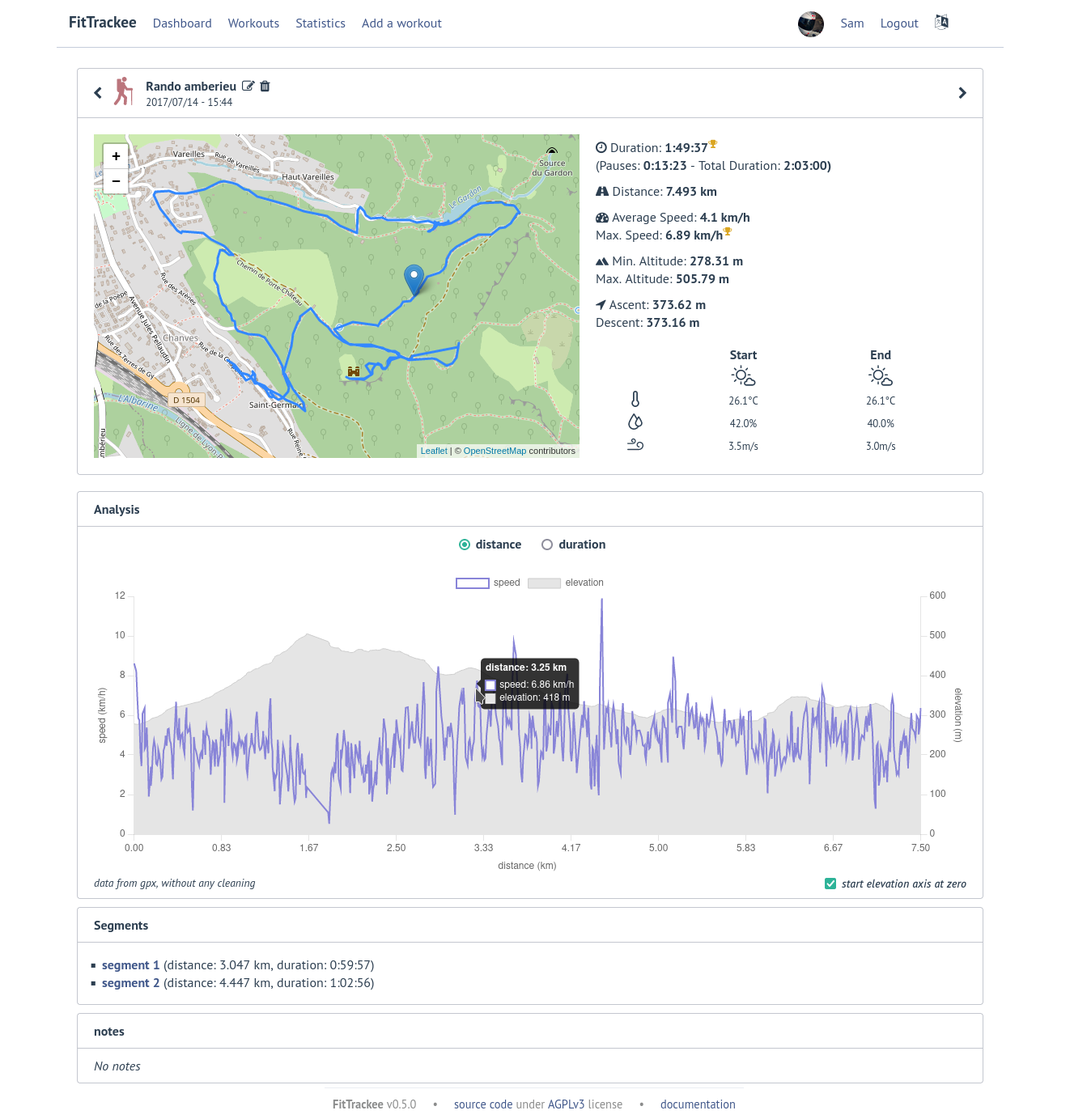
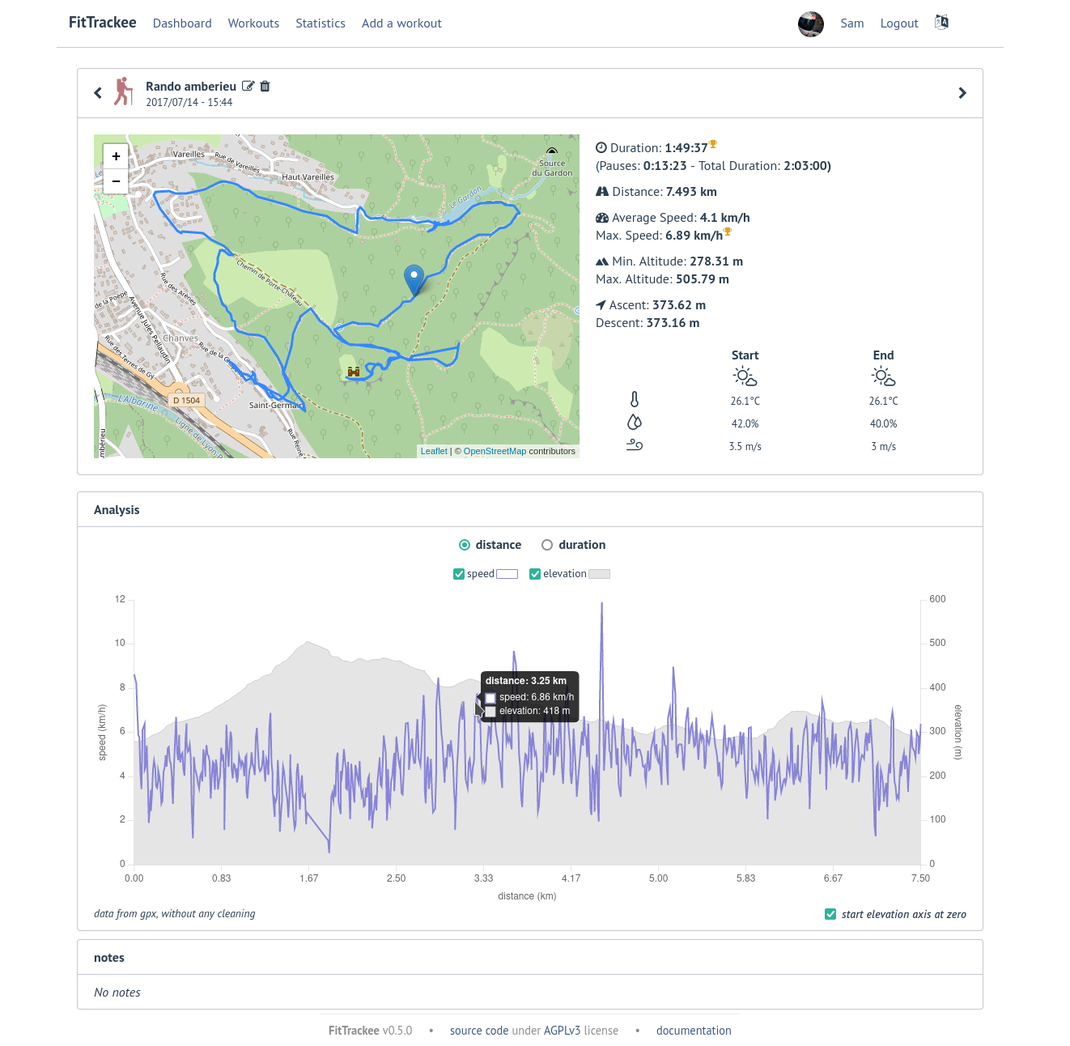
update documentation

diff --git a/docs/searchindex.js b/docs/searchindex.js
@@ -1,1 +1,1 @@
-Search.setIndex({docnames:["api/auth","api/configuration","api/index","api/records","api/sports","api/stats","api/users","api/workouts","changelog","features","index","installation","troubleshooting/administrator","troubleshooting/index","troubleshooting/user"],envversion:{"sphinx.domains.c":2,"sphinx.domains.changeset":1,"sphinx.domains.citation":1,"sphinx.domains.cpp":4,"sphinx.domains.index":1,"sphinx.domains.javascript":2,"sphinx.domains.math":2,"sphinx.domains.python":3,"sphinx.domains.rst":2,"sphinx.domains.std":2,sphinx:56},filenames:["api/auth.rst","api/configuration.rst","api/index.rst","api/records.rst","api/sports.rst","api/stats.rst","api/users.rst","api/workouts.rst","changelog.md","features.rst","index.rst","installation.rst","troubleshooting/administrator.rst","troubleshooting/index.rst","troubleshooting/user.rst"],objects:{"":[[0,0,1,"post--api-auth-login","/api/auth/login"],[0,1,1,"get--api-auth-logout","/api/auth/logout"],[0,0,1,"post--api-auth-password-reset-request","/api/auth/password/reset-request"],[0,0,1,"post--api-auth-password-update","/api/auth/password/update"],[0,2,1,"delete--api-auth-picture","/api/auth/picture"],[0,0,1,"post--api-auth-picture","/api/auth/picture"],[0,1,1,"get--api-auth-profile","/api/auth/profile"],[0,0,1,"post--api-auth-profile-edit","/api/auth/profile/edit"],[0,0,1,"post--api-auth-profile-edit-preferences","/api/auth/profile/edit/preferences"],[0,0,1,"post--api-auth-profile-edit-sports","/api/auth/profile/edit/sports"],[0,0,1,"post--api-auth-register","/api/auth/register"],[1,1,1,"get--api-config","/api/config"],[1,3,1,"patch--api-config","/api/config"],[1,1,1,"get--api-ping","/api/ping"],[3,1,1,"get--api-records","/api/records"],[4,1,1,"get--api-sports","/api/sports"],[4,1,1,"get--api-sports-(int-sport_id)","/api/sports/(int:sport_id)"],[4,3,1,"patch--api-sports-(int-sport_id)","/api/sports/(int:sport_id)"],[5,1,1,"get--api-stats-(user_name)-by_sport","/api/stats/(user_name)/by_sport"],[5,1,1,"get--api-stats-(user_name)-by_time","/api/stats/(user_name)/by_time"],[5,1,1,"get--api-stats-all","/api/stats/all"],[6,1,1,"get--api-users","/api/users"],[6,2,1,"delete--api-users-(user_name)","/api/users/(user_name)"],[6,1,1,"get--api-users-(user_name)","/api/users/(user_name)"],[6,3,1,"patch--api-users-(user_name)","/api/users/(user_name)"],[6,1,1,"get--api-users-(user_name)-picture","/api/users/(user_name)/picture"],[7,1,1,"get--api-workouts","/api/workouts"],[7,0,1,"post--api-workouts","/api/workouts"],[7,2,1,"delete--api-workouts-(string-workout_short_id)","/api/workouts/(string:workout_short_id)"],[7,1,1,"get--api-workouts-(string-workout_short_id)","/api/workouts/(string:workout_short_id)"],[7,3,1,"patch--api-workouts-(string-workout_short_id)","/api/workouts/(string:workout_short_id)"],[7,1,1,"get--api-workouts-(string-workout_short_id)-chart_data","/api/workouts/(string:workout_short_id)/chart_data"],[7,1,1,"get--api-workouts-(string-workout_short_id)-chart_data-segment-(int-segment_id)","/api/workouts/(string:workout_short_id)/chart_data/segment/(int:segment_id)"],[7,1,1,"get--api-workouts-(string-workout_short_id)-gpx","/api/workouts/(string:workout_short_id)/gpx"],[7,1,1,"get--api-workouts-(string-workout_short_id)-gpx-segment-(int-segment_id)","/api/workouts/(string:workout_short_id)/gpx/segment/(int:segment_id)"],[7,1,1,"get--api-workouts-map-(map_id)","/api/workouts/map/(map_id)"],[7,0,1,"post--api-workouts-no_gpx","/api/workouts/no_gpx"],[11,4,1,"-","APP_LOG"],[11,4,1,"-","APP_SECRET_KEY"],[11,4,1,"-","APP_SETTINGS"],[11,4,1,"-","APP_WORKERS"],[11,4,1,"-","DATABASE_DISABLE_POOLING"],[11,4,1,"-","DATABASE_URL"],[11,4,1,"envvar-DEFAULT_STATICMAP","DEFAULT_STATICMAP \ud83c\udd95"],[11,4,1,"-","EMAIL_URL"],[11,4,1,"-","FLASK_APP"],[11,4,1,"-","HOST"],[11,4,1,"-","MAP_ATTRIBUTION"],[11,4,1,"-","PORT"],[11,4,1,"-","REDIS_URL"],[11,4,1,"-","SENDER_EMAIL"],[11,4,1,"-","TILE_SERVER_URL"],[11,4,1,"-","UI_URL"],[11,4,1,"-","UPLOAD_FOLDER"],[11,4,1,"-","VUE_APP_API_URL"],[11,4,1,"-","WEATHER_API_KEY"],[11,4,1,"-","WORKERS_PROCESSES"]],"/api/workouts/map_tile/(s)/(z)/(x)/(y)":[[7,1,1,"get--api-workouts-map_tile-(s)-(z)-(x)-(y).png","png"]]},objnames:{"0":["http","post","HTTP post"],"1":["http","get","HTTP get"],"2":["http","delete","HTTP delete"],"3":["http","patch","HTTP patch"],"4":["std","envvar","environment variable"]},objtypes:{"0":"http:post","1":"http:get","2":"http:delete","3":"http:patch","4":"std:envvar"},terms:{"0":[0,1,3,4,5,6,7,9,10,11],"00":[0,3,6,7],"000000":0,"01":[0,3,5,6,7,10],"02":[7,10],"03":[6,7,10],"04":[7,10],"06":5,"07":[0,3,6,7,10],"08":[0,3,6],"09":[0,6,10],"0mb":[0,7],"1":[0,1,3,4,5,6,7,9,10,11],"10":[0,1,3,6,7,10,11],"100":[7,8,9],"1000":5,"101":8,"104":8,"1048576":1,"10485760":1,"109":8,"11":[0,3,6,9,10],"12":[0,3,6,7,10],"1232004":7,"12341":5,"1234538":7,"1267":5,"127":11,"13":[7,8],"14":[0,6,7,10],"15":[5,7,10],"150":5,"156":5,"1563529507772":7,"16":[5,7,10],"17":[7,10,11],"178":5,"18":[0,3,6,7,8],"19":10,"2":[0,1,3,4,5,6,7,10,11],"20":6,"200":[0,1,3,4,5,6,7],"201":[0,7],"2017":[5,7],"2018":[5,7,10],"2019":[0,3,5,6,7,10],"2020":10,"2021":10,"203":5,"204":[0,6,7],"21":10,"22":[7,8],"23":10,"24":8,"25":[8,11],"26":8,"27":[0,6],"279":7,"28":8,"280":7,"282":5,"29":10,"2930":7,"2e1ee2c":8,"3":[0,4,5,6,7,9,10,11],"30":[5,10],"3000":11,"301":11,"31":[7,10],"33":8,"34":8,"34614d5":8,"36":8,"37":8,"39":7,"4":[0,4,5,6,7,10,11],"40":8,"400":[0,1,4,7],"401":[0,1,3,4,5,6,7],"403":[0,1,4,5,6,7],"404":[0,4,5,6,7],"41":8,"4109":7,"413":[0,7],"43":8,"44":[7,8],"443":11,"45":7,"46":[5,8],"465":11,"47":[5,7,8],"48":5,"4c3fc34":8,"5":[1,4,5,6,7,9,10,11],"50":[0,6,8],"500":[0,1,4,6,7],"5000":11,"5078118":7,"5079733":7,"51":7,"53":8,"54":8,"5432":11,"57":[7,8],"58":[0,6,8],"587":11,"59":8,"6":[0,4,6,7,10],"613":5,"62":8,"63":7,"64":8,"66":8,"67":[0,6],"7":[7,10,11],"70":8,"71":8,"72":8,"7380":7,"75":8,"78":5,"79":8,"8":[0,7,10],"80":[8,11],"8025":11,"81":8,"82":8,"83":8,"84":8,"895":[0,6],"9":[0,3,6,10,11],"90":8,"91":8,"93":8,"95":[5,8],"98":8,"99":[5,8],"9960":5,"boolean":[0,1,6],"case":9,"default":[5,6,7,8,9,11],"do":[1,4,5,6,7],"export":10,"float":[0,7],"import":[8,11],"int":[4,7],"new":[0,9,11],"null":[0,4,6,7],"return":[3,7,11],"short":7,"static":[8,11],"switch":8,"true":[0,1,4,6,8,11],"try":[0,6,7],A:[6,8,9],AS:[0,3,6,7],For:[9,11],If:[9,11],In:[8,9],It:[8,9,10,12],NO:[0,6,7],NOT:[0,4,7],No:[0,6,7,8,10],Not:[4,5,6,7],OF:11,ON:11,On:11,One:11,TO:11,The:[8,9,11],There:11,To:11,WITH:11,With:11,_:8,__main__:11,_blank:11,access:11,account:[6,8],acit:7,activ:[4,8,9,10,11],ad:[0,8,9],adapt:11,add:[6,8,9,10],addit:11,address:11,admin:[0,1,3,4,5,6,7,8,9,11],administr:[0,6,7,10,13],after:[8,11],again:[0,1,3,4,5,6,7],agplv3:8,all:[3,4,5,6,11],allow:[0,1,7,8,10],along:7,alpin:9,alreadi:0,also:[8,10,11],altitud:8,alwai:11,an:[1,4,6,7,8,9,11],android:10,anoth:[6,11],anymor:8,apach:10,api:[0,1,3,4,5,6,7,8,9,10,11],apikei:11,app:10,app_log:11,app_secret_kei:11,app_set:11,app_work:11,appear:9,applic:[0,1,3,4,5,6,7,8,9,10,11],ar:[3,7,8,9,10,11,12],arch:11,archiv:[1,8,9,11],archlinux:11,asc:6,ascent:[7,9],attribut:11,auth:[0,1,3,4,5,6,7],auth_token:0,auth_user_id:[1,3,4,5,6,7],authent:[1,2,3,4,5,6,7,10],author:[0,1,3,4,5,6,7],avail:[0,3,9,10,11],ave_spe:7,ave_speed_from:7,ave_speed_to:7,averag:[3,7,8,9],average_spe:5,axi:7,b862a77:8,b:11,background:8,backup:11,bad:[0,1,4,7],bearer:[0,1,3,4,5,6,7],becom:8,been:8,befor:[8,11],begin:11,better:8,between:9,bike:[4,7,8,9],bin:11,bio:[0,6],biographi:0,birth:[0,8],birth_dat:[0,6],bound:7,build:11,by_sport:5,by_tim:5,c:7,calcul:8,calendar:[8,9],can:[6,8,9,10,11,12],cannot:8,cd:11,chang:[9,10,11],charact:[0,8],chart:[7,8,9,11],chart_data:7,check:[1,11,12],choos:[8,9],client:[8,11],client_max_body_s:11,clone:11,code:[0,1,3,4,5,6,7],color:[0,4,8,9],com:[0,6,11],complet:8,config:[1,11],configur:[2,8,9,10,11],confirm:0,contact:[0,6,7],contain:[8,9,11],content:[0,1,3,4,5,6,7],contributor:[1,8,11],control:8,coordin:11,copi:[1,11],copyright:[1,11],correctli:8,countri:9,cp:11,creat:[0,7,8,9,11],create_app:11,created_at:[0,6],creation:[8,9],creation_d:7,credenti:[0,11],criteria:6,cross:9,current:8,custom:11,cycl:[4,8,9],d:[0,5,7],dai:[8,9],dark:11,darkski:[8,9],dashboard:[8,10],data:[0,1,3,4,5,6,7,8,9,10,11],databas:[8,9,11,12],database_disable_pool:11,database_url:[8,11],date:[0,5,7,8,9],db:11,debian:11,default_staticmap:[8,11],defin:9,definit:8,delet:[0,6,7,8,9],depend:[8,11],deploy:10,desc:7,descent:[7,9],describ:11,descript:11,detail:[6,8,10],develop:[8,10],dialect:12,differ:8,directli:11,directori:[8,11],disabl:[0,8,9,11],displai:[7,8,9,10,11,12],distanc:[3,7,8,9],distance_from:7,distance_to:7,distribut:11,docker:[8,10],document:[8,10,11],doe:[0,5,6,7,8],don:0,down:8,download:11,dramatiq:11,drop:8,dropdown:9,due:8,durat:[3,7,8,9],duration_from:7,duration_to:7,dure:[0,7],easi:8,edit:[0,8,9],electr:9,elev:[7,8,9,11],els:11,email:[0,6,8],email_url:11,empti:8,en:[0,6],enabl:[1,9],encount:11,end:[5,7],endpoint:[1,8],engin:[8,11,12],english:9,enter:[8,9],entiti:[0,7],entri:11,env:11,environ:[8,10,12],error:[0,1,4,6,7,8,9,11,12],europ:[0,6],evalu:[8,11],even:[8,9],exampl:[0,1,3,4,5,6,7,10,11],exc:12,exce:[0,7],exceed:8,except:6,execstart:11,exhaust:10,exist:[0,5,6,7,9,10,11],expir:[0,1,3,4,5,6,7],extens:[0,7],fa33f4d996844a5c73ecd1ae24456ab8:7,fail:[8,13],fals:[0,1,4,6,7,11],farest:[3,8,9],fd:[0,3,6,7],featur:[10,11],fetch:11,file:[0,1,7,8,9,10,11],filter:[8,9],first:[0,9,10],first_nam:[0,6],fitotrack:10,fittracke:[9,11,13],fittrackee_cli:11,fittrackee_init_data:11,fittrackee_upgrade_db:11,fittrackee_work:11,fix:10,flask:11,flask_app:11,flaticon:11,fmstrat:8,follow:[3,9,11,12],forbidden:[0,1,4,5,6,7],forecast:11,form:[0,7],format:[0,5,7],former:11,forrunn:10,forward:11,found:[0,4,5,6,7],fr:6,frame:5,freepik:11,french:[9,10],fri:7,from:[1,3,4,5,6,7,8,10],full:8,fullchain:11,gener:[8,11],get:[0,1,3,4,5,6,7],gif:0,git:11,github:11,given:11,gmt:[0,3,6,7],gpl:10,gpx:[7,8,9,10,11],gpx_limit_import:1,gpxpy:[0,9,11],grant:11,greater:8,gunicorn:[11,12],gz:11,h:[7,9],ha:[6,9],handl:[0,9,11],has_workout:4,have:[1,4,5,6,7,8],he:6,header:[0,1,3,4,5,6,7],health:1,heavi:[10,11],hexadecim:0,hi:[6,8,9],hike:[4,8,9],home:11,host:11,href:[1,11],http:[0,1,3,4,5,6,7,11],hvybqybra7wwxpastwr4v2:[0,3,6],i18n:8,icon:11,id:[0,1,3,4,5,6,7],imag:[0,6,7,8,9,11],imperi:[8,9],imperial_unit:[0,6],improv:10,incorrect:8,index:7,info:0,inform:[8,10,11],init:11,initi:11,initialis:11,insid:11,instal:[8,10],instanc:[1,9,11],instead:9,integ:[1,3,4,5,6,7],interceptor:8,interfac:11,intern:[0,1,4,6,7],introduc:8,invalid:[0,1,3,4,5,6,7,8,11],io:11,ip:11,is_act:[0,4],is_active_for_us:4,is_registration_en:1,issu:[10,11],jan:7,javascript:8,john_do:6,jpeg:6,jpg:0,js:11,json:[0,1,3,4,5,6,7],jul:[0,3,6,7],keep:[8,10,11],kei:[8,9,11],kjxavsturjvoah2wvcegef:7,km:[7,9],label:4,languag:[0,6,9],larg:[0,7,9],larger:11,last:[0,11],last_nam:[0,6],latitud:7,layer:[8,11],ld:[0,3,6,7],leaflet:[7,11],least:7,less:8,librari:11,licens:[8,10],like:[9,11],limit:[8,9],link:11,linux:11,list:[8,10,11],listen:11,load:[8,12],local:[8,10,11],localhost:11,locat:[0,6,11],log:[0,1,3,4,5,6,7,10,11,12],logfil:11,login:0,logo:11,logout:[0,8],longer:[8,12],longest:[3,8,9],longitud:7,m:[0,5,7],made:11,mai:[9,10,11],mailhog:11,major:8,make:[8,11],makefil:11,manag:8,mandatori:[7,8,11],map:[7,8,9,10],map_attribut:[1,11],map_id:7,map_til:7,match:0,max:[1,6,7,8],max_alt:7,max_single_file_s:1,max_spe:7,max_speed_from:7,max_speed_to:7,max_us:1,max_zip_file_s:1,maxim:7,maximum:[3,8,9],messag:[0,1,7,8],method:11,metric:9,migrat:8,min:8,min_alt:7,minim:7,minor:10,miss:8,mobil:10,model:8,modifi:[6,8],modification_d:7,modul:11,mon:7,mondai:[0,5,9],montain:8,month:[5,8,9],more:[8,9,10,11],morn:7,mountain:[4,9],mous:8,move:[7,8],movement:8,mpwoadmin:11,ms:[0,3,6,7],multi:11,multipart:[0,7],must:[0,1,4,8,9,11,12],mv:11,n:0,name:[0,5,6,11],nano:11,nb_sport:[0,6],nb_workout:[0,5,6],necessari:[9,11],need:11,network:11,next:9,next_workout:7,nginx:[9,11],no_gpx:7,non:[4,10],noopen:11,noreferr:11,nosuchmoduleerror:12,note:[7,8,9,11],now:[8,9,11],number:[1,6,7,8,9,11],oauth:[0,1,3,4,5,6,7],object:[0,1,4,6,7],ok:[0,1,3,4,5,6,7],one:[6,7,9],onli:[6,7,8,9,11],open:[10,11],openstreetmap:[1,8,11],opentrack:10,option:11,order:[6,7,8],order_bi:6,org:[1,11],os:11,other:[6,11],out:0,outdoor:[8,10,11],over:8,overrid:9,overridden:9,overwrit:11,own:[6,10],owner:[8,9],packag:[8,11],paf38:8,page:[6,7],pagin:[6,7],par_pag:6,paramet:[0,1,3,4,5,6,7,8,9],pari:[0,6],pars:11,part:[0,7],pass:11,password:[0,8,9,11],password_conf:0,patch:[1,4,6,7],path:11,paus:[7,8],payload:[0,1,4,7],pem:11,per:[6,7,8],per_pag:[6,7],period:9,permiss:[1,4,5,6,7],pg_dump:11,pictur:[0,6,7],ping:1,pip:11,pipenv:8,pleas:[0,1,3,4,5,6,7,8],plugin:12,png:[0,7,11],poetri:[8,11],point:[8,11],pong:1,pool:11,port:11,possibl:[8,10],post:[0,7],postgr:[8,12],postgresql:[8,11,12],prefer:[0,8],prerequisit:10,previous_workout:7,privileg:11,privkei:11,process:[0,9,11],productionconfig:11,profil:0,project:11,provid:[0,1,3,4,5,6,7,8,9,11],proxi:11,proxy_add_x_forwarded_for:11,proxy_pass:11,proxy_redirect:11,proxy_set_head:11,pull:11,purpos:[8,11],pwd:11,py:11,pypi:10,python:[8,11],q:6,queri:[5,6,7],queue:11,r:11,rais:9,read:8,real:11,rebuild:8,rechart:7,recommend:11,record:[0,2,6,7,8,9,10],record_typ:[0,3,6,7],redi:[8,11],redis_url:11,refactor:8,regist:[0,1,11],registr:[0,1,8,9],rel:11,relat:[9,11],releas:[10,11],remain:8,remote_addr:11,remov:9,renam:8,replac:[8,11],repo:11,repositori:11,request:[0,1,3,4,5,6,7],request_uri:11,requir:0,reset:[0,8,9],respons:[0,1,3,4,5,6,7],restart:11,restartsec:11,right:[6,8,9],rout:8,row:9,run:[4,8,9,11],runner:10,s:[6,7,8,9,11],sam:[0,6],same:8,samr1:11,sat:6,save:[8,9],schema:11,search:8,second:7,secret:11,see:[8,9,10,11],seem:8,segment:[7,8,9],segment_id:7,select:[0,7],send:[8,11],sender:11,sender_email:11,serv:11,server:[0,1,4,6,7,8,9,10],server_nam:11,servic:11,set:[8,9],sever:[10,11],shell:11,should:11,show:8,shown:8,side:8,signatur:[0,1,3,4,5,6,7],simpl:11,simplifi:8,sinc:11,singl:[1,6],size:[0,1,7,8,9],ski:9,sky:11,slow:8,smtp:11,some:[6,7,8,10,11],sorri:0,sort:[6,7],sourc:10,spawn:11,speed:[0,3,7,8,9,11],spinner:8,sport:[0,2,5,7,8,9,10,11],sport_id:[0,3,4,5,6,7],sports_list:[0,6],sql:11,sqlalchemi:[8,11,12],ssl:11,ssl_certif:11,ssl_certificate_kei:11,standard:[8,11],standarderror:11,standardoutput:11,start:[0,5,7,8,9,11,13],startlimitintervalsec:11,starttl:11,stat:[5,8],staticmap:11,statist:[2,10],statu:[0,1,3,4,5,6,7],step:11,still:[9,10],stop:[0,8,9,11],stopped_speed_threshold:[0,4],store:[9,10],street:10,string:[0,4,5,6,7],subdomain:7,success:[0,1,3,4,5,6,7],successfulli:0,sun:[0,3,6,7],sundai:[5,7,9],support:[8,9,12],syslog:11,syslogidentifi:11,system:[9,11],systemd:11,t:[0,12],tar:11,target:11,task:11,term:[8,11],test:11,textarea:8,than:8,thank:8,thei:11,them:10,thi:[7,8,9,10,11],threshold:[0,8,9],thunderforest:[8,11],tile:[7,8],tile_server_url:11,time:[0,5,7,8,9],timezon:[0,6,8,9],titl:7,tl:11,todo:14,token:[0,1,3,4,5,6,7],too:[0,7],tool:11,tooltip:8,total:[8,9],total_asc:5,total_dist:[0,5,6],total_dur:[0,5,6],track:10,trail:9,transport:[4,8,9],troubleshoot:10,type:[0,1,3,4,5,6,7,11],typescript:11,u:11,ui:8,ui_url:11,unauthor:[0,1,3,4,5,6,7],under:[10,11],unencrypt:11,unit:[8,11],unreleas:10,unstabl:[10,11],up:[9,10],updat:[0,1,4,6,7,8,9,11],upload:[8,9,11],upload_fold:11,uploads_dir_s:5,url:[8,11,12],us:[0,6,7,8,9,10,11],user:[0,1,2,3,4,5,7,8,9,10,11,13],user_id:0,user_nam:[5,6],usernam:[0,6,11],uuid:[7,8],v0:11,v3:10,valid:[0,1,3,4,5,6,7,11],valu:[0,3,6,7],variabl:[8,10,12],venv:11,version:[1,10,11],view:8,virtualenv:11,vue3:11,vue:11,vue_app_api_url:11,vuex:11,wa:8,wai:11,walk:[4,8,9],wantedbi:11,warn:8,weather:[8,9,11],weather_api:11,weather_api_kei:11,weather_end:7,weather_start:7,web:[0,1,3,4,5,6,7,10,11],week:[0,5,8,9],weekend:8,weekm:[0,5],were:8,wget:11,when:[0,1,8,9,11],where:11,which:9,with_gpx:7,without:[5,6,7,8,9,10],worker:11,workers_process:11,workingdirectori:11,workout:[0,2,5,8,10],workout_d:[0,3,6,7],workout_id:[0,3,6,7],workout_short_id:7,workouts_count:6,written:11,www:[1,11],x:[7,11],xxxx:11,xzf:11,y:[0,5,7,11],yai:11,yarn:11,year:[5,9],yet:10,you:[1,4,5,6,7,10],your:[6,10,11],z:[7,11],zip:[1,7,8,9],zone:0,zoom:7},titles:["Authentication","Configuration","API documentation","Records","Sports","Statistics","Users","Workouts","Change log","Features","FitTrackee","Installation","Administrator","Troubleshooting","User"],titleterms:{"0":8,"01":8,"02":8,"03":8,"04":8,"07":8,"09":8,"1":8,"10":8,"11":8,"12":8,"14":8,"15":8,"16":8,"17":8,"19":8,"2":8,"2018":8,"2019":8,"2020":8,"2021":8,"21":8,"23":8,"29":8,"3":8,"30":8,"31":8,"4":8,"5":8,"6":8,"7":8,"8":8,"9":8,"new":8,account:9,administr:[8,9,12],api:2,authent:0,avail:8,bug:8,chang:8,close:8,configur:1,content:10,dashboard:9,deploy:11,detail:9,dev:11,develop:11,docker:11,document:2,email:11,endpoint:[2,13],environ:11,fail:12,featur:[8,9],first:8,fittracke:[8,10,12],fix:8,french:8,from:11,improv:8,instal:11,issu:8,list:9,log:8,map:11,minor:8,misc:8,prefer:9,prerequisit:11,prod:11,product:11,pull:8,pypi:[8,11],record:3,releas:8,request:8,server:11,sourc:11,sport:4,start:12,statist:[5,8,9],tabl:10,tile:11,translat:9,troubleshoot:13,unreleas:8,upgrad:11,user:[6,14],variabl:11,version:8,workout:[7,9]}})
+Search.setIndex({docnames:["api/auth","api/configuration","api/index","api/records","api/sports","api/stats","api/users","api/workouts","changelog","features","index","installation","troubleshooting/administrator","troubleshooting/index","troubleshooting/user"],envversion:{"sphinx.domains.c":2,"sphinx.domains.changeset":1,"sphinx.domains.citation":1,"sphinx.domains.cpp":4,"sphinx.domains.index":1,"sphinx.domains.javascript":2,"sphinx.domains.math":2,"sphinx.domains.python":3,"sphinx.domains.rst":2,"sphinx.domains.std":2,sphinx:56},filenames:["api/auth.rst","api/configuration.rst","api/index.rst","api/records.rst","api/sports.rst","api/stats.rst","api/users.rst","api/workouts.rst","changelog.md","features.rst","index.rst","installation.rst","troubleshooting/administrator.rst","troubleshooting/index.rst","troubleshooting/user.rst"],objects:{"":[[0,0,1,"post--api-auth-login","/api/auth/login"],[0,1,1,"get--api-auth-logout","/api/auth/logout"],[0,0,1,"post--api-auth-password-reset-request","/api/auth/password/reset-request"],[0,0,1,"post--api-auth-password-update","/api/auth/password/update"],[0,2,1,"delete--api-auth-picture","/api/auth/picture"],[0,0,1,"post--api-auth-picture","/api/auth/picture"],[0,1,1,"get--api-auth-profile","/api/auth/profile"],[0,0,1,"post--api-auth-profile-edit","/api/auth/profile/edit"],[0,0,1,"post--api-auth-profile-edit-preferences","/api/auth/profile/edit/preferences"],[0,0,1,"post--api-auth-profile-edit-sports","/api/auth/profile/edit/sports"],[0,0,1,"post--api-auth-register","/api/auth/register"],[1,1,1,"get--api-config","/api/config"],[1,3,1,"patch--api-config","/api/config"],[1,1,1,"get--api-ping","/api/ping"],[3,1,1,"get--api-records","/api/records"],[4,1,1,"get--api-sports","/api/sports"],[4,1,1,"get--api-sports-(int-sport_id)","/api/sports/(int:sport_id)"],[4,3,1,"patch--api-sports-(int-sport_id)","/api/sports/(int:sport_id)"],[5,1,1,"get--api-stats-(user_name)-by_sport","/api/stats/(user_name)/by_sport"],[5,1,1,"get--api-stats-(user_name)-by_time","/api/stats/(user_name)/by_time"],[5,1,1,"get--api-stats-all","/api/stats/all"],[6,1,1,"get--api-users","/api/users"],[6,2,1,"delete--api-users-(user_name)","/api/users/(user_name)"],[6,1,1,"get--api-users-(user_name)","/api/users/(user_name)"],[6,3,1,"patch--api-users-(user_name)","/api/users/(user_name)"],[6,1,1,"get--api-users-(user_name)-picture","/api/users/(user_name)/picture"],[7,1,1,"get--api-workouts","/api/workouts"],[7,0,1,"post--api-workouts","/api/workouts"],[7,2,1,"delete--api-workouts-(string-workout_short_id)","/api/workouts/(string:workout_short_id)"],[7,1,1,"get--api-workouts-(string-workout_short_id)","/api/workouts/(string:workout_short_id)"],[7,3,1,"patch--api-workouts-(string-workout_short_id)","/api/workouts/(string:workout_short_id)"],[7,1,1,"get--api-workouts-(string-workout_short_id)-chart_data","/api/workouts/(string:workout_short_id)/chart_data"],[7,1,1,"get--api-workouts-(string-workout_short_id)-chart_data-segment-(int-segment_id)","/api/workouts/(string:workout_short_id)/chart_data/segment/(int:segment_id)"],[7,1,1,"get--api-workouts-(string-workout_short_id)-gpx","/api/workouts/(string:workout_short_id)/gpx"],[7,1,1,"get--api-workouts-(string-workout_short_id)-gpx-segment-(int-segment_id)","/api/workouts/(string:workout_short_id)/gpx/segment/(int:segment_id)"],[7,1,1,"get--api-workouts-map-(map_id)","/api/workouts/map/(map_id)"],[7,0,1,"post--api-workouts-no_gpx","/api/workouts/no_gpx"],[11,4,1,"-","APP_LOG"],[11,4,1,"-","APP_SECRET_KEY"],[11,4,1,"-","APP_SETTINGS"],[11,4,1,"-","APP_WORKERS"],[11,4,1,"-","DATABASE_DISABLE_POOLING"],[11,4,1,"-","DATABASE_URL"],[11,4,1,"envvar-DEFAULT_STATICMAP","DEFAULT_STATICMAP \ud83c\udd95"],[11,4,1,"-","EMAIL_URL"],[11,4,1,"-","FLASK_APP"],[11,4,1,"-","HOST"],[11,4,1,"-","MAP_ATTRIBUTION"],[11,4,1,"-","PORT"],[11,4,1,"-","REDIS_URL"],[11,4,1,"-","SENDER_EMAIL"],[11,4,1,"-","TILE_SERVER_URL"],[11,4,1,"-","UI_URL"],[11,4,1,"-","UPLOAD_FOLDER"],[11,4,1,"-","VUE_APP_API_URL"],[11,4,1,"-","WEATHER_API_KEY"],[11,4,1,"-","WORKERS_PROCESSES"]],"/api/workouts/map_tile/(s)/(z)/(x)/(y)":[[7,1,1,"get--api-workouts-map_tile-(s)-(z)-(x)-(y).png","png"]]},objnames:{"0":["http","post","HTTP post"],"1":["http","get","HTTP get"],"2":["http","delete","HTTP delete"],"3":["http","patch","HTTP patch"],"4":["std","envvar","environment variable"]},objtypes:{"0":"http:post","1":"http:get","2":"http:delete","3":"http:patch","4":"std:envvar"},terms:{"0":[0,1,3,4,5,6,7,9,10,11],"00":[0,3,6,7],"000000":0,"01":[0,3,5,6,7,10],"02":[7,10],"03":[6,7,10],"04":[7,10],"06":5,"07":[0,3,6,7,10],"08":[0,3,6],"09":[0,6,10],"0mb":[0,7],"1":[0,1,3,4,5,6,7,9,10,11],"10":[0,1,3,6,7,10,11],"100":[7,8,9],"1000":5,"101":8,"104":8,"1048576":1,"10485760":1,"109":8,"11":[0,3,6,9,10],"116":8,"12":[0,3,6,7,10],"1232004":7,"12341":5,"1234538":7,"1267":5,"127":11,"13":[7,8],"14":[0,6,7,10],"15":[5,7,10],"150":5,"156":5,"1563529507772":7,"16":[5,7,10],"17":[7,10,11],"178":5,"18":[0,3,6,7,8],"19":10,"2":[0,1,3,4,5,6,7,10,11],"20":6,"200":[0,1,3,4,5,6,7],"201":[0,7],"2017":[5,7],"2018":[5,7,10],"2019":[0,3,5,6,7,10],"2020":10,"2021":10,"203":5,"204":[0,6,7],"21":10,"22":[7,8],"23":10,"24":8,"25":[8,11],"26":8,"27":[0,6],"279":7,"28":8,"280":7,"282":5,"29":10,"2930":7,"2e1ee2c":8,"3":[0,4,5,6,7,9,10,11],"30":[5,10],"3000":11,"301":11,"31":[7,10],"33":8,"34":8,"34614d5":8,"36":8,"37":8,"39":7,"4":[0,4,5,6,7,10,11],"40":8,"400":[0,1,4,7],"401":[0,1,3,4,5,6,7],"403":[0,1,4,5,6,7],"404":[0,4,5,6,7],"41":8,"4109":7,"413":[0,7],"43":8,"44":[7,8],"443":11,"45":7,"46":[5,8],"465":11,"47":[5,7,8],"48":5,"4c3fc34":8,"5":[1,4,5,6,7,9,10,11],"50":[0,6,8],"500":[0,1,4,6,7],"5000":11,"5078118":7,"5079733":7,"51":7,"53":8,"54":8,"5432":11,"57":[7,8],"58":[0,6,8],"587":11,"59":8,"6":[0,4,6,7,10],"613":5,"62":8,"63":7,"64":8,"66":8,"67":[0,6],"7":[7,10,11],"70":8,"71":8,"72":8,"7380":7,"75":8,"78":5,"79":8,"8":[0,7,10],"80":[8,11],"8025":11,"81":8,"82":8,"83":8,"84":8,"895":[0,6],"9":[0,3,6,10,11],"90":8,"91":8,"93":8,"95":[5,8],"98":8,"99":[5,8],"9960":5,"boolean":[0,1,6],"case":9,"default":[5,6,7,8,9,11],"do":[1,4,5,6,7],"export":10,"float":[0,7],"import":[8,11],"int":[4,7],"new":[0,9,11],"null":[0,4,6,7],"return":[3,7,11],"short":7,"static":[8,11],"switch":8,"true":[0,1,4,6,8,11],"try":[0,6,7],A:[6,8,9],AS:[0,3,6,7],For:[9,11],If:[9,11],In:[8,9],It:[8,9,10,12],NO:[0,6,7],NOT:[0,4,7],No:[0,6,7,8,10],Not:[4,5,6,7],OF:11,ON:11,On:11,One:11,TO:11,The:[8,9,11],There:11,To:11,WITH:11,With:11,_:8,__main__:11,_blank:11,access:11,account:[6,8],acit:7,activ:[4,8,9,10,11],ad:[0,8,9],adapt:11,add:[6,8,9,10],addit:11,address:11,admin:[0,1,3,4,5,6,7,8,9,11],administr:[0,6,7,10,13],after:[8,11],again:[0,1,3,4,5,6,7],agplv3:8,all:[3,4,5,6,11],allow:[0,1,7,8,10],along:7,alpin:9,alreadi:0,also:[8,10,11],altitud:8,alwai:11,an:[1,4,6,7,8,9,11],android:10,anoth:[6,11],anymor:8,apach:10,api:[0,1,3,4,5,6,7,8,9,10,11],apikei:11,app:10,app_log:11,app_secret_kei:11,app_set:11,app_work:11,appear:9,applic:[0,1,3,4,5,6,7,8,9,10,11],ar:[3,7,8,9,10,11,12],arch:11,archiv:[1,8,9,11],archlinux:11,asc:6,ascent:[7,9],attribut:11,auth:[0,1,3,4,5,6,7],auth_token:0,auth_user_id:[1,3,4,5,6,7],authent:[1,2,3,4,5,6,7,10],author:[0,1,3,4,5,6,7],avail:[0,3,9,10,11],ave_spe:7,ave_speed_from:7,ave_speed_to:7,averag:[3,7,8,9],average_spe:5,axi:7,b862a77:8,b:11,background:8,backup:11,bad:[0,1,4,7],bearer:[0,1,3,4,5,6,7],becom:8,been:8,befor:[8,11],begin:11,better:8,between:9,bike:[4,7,8,9],bin:11,bio:[0,6],biographi:0,birth:[0,8],birth_dat:[0,6],bound:7,build:11,button:8,by_sport:5,by_tim:5,c:7,calcul:8,calendar:[8,9],can:[6,8,9,10,11,12],cannot:8,cd:11,chang:[9,10,11],charact:[0,8],chart:[7,8,9,11],chart_data:7,check:[1,11,12],choos:[8,9],client:[8,11],client_max_body_s:11,clone:11,code:[0,1,3,4,5,6,7],color:[0,4,8,9],com:[0,6,11],complet:8,config:[1,11],configur:[2,8,9,10,11],confirm:0,contact:[0,6,7],contain:[8,9,11],content:[0,1,3,4,5,6,7],contributor:[1,8,11],control:8,coordin:11,copi:[1,11],copyright:[1,11],correctli:8,countri:9,cp:11,creat:[0,7,8,9,11],create_app:11,created_at:[0,6],creation:[8,9],creation_d:7,credenti:[0,11],criteria:6,cross:9,current:8,custom:11,cycl:[4,8,9],d:[0,5,7],dai:[8,9],dark:11,darkski:[8,9],dashboard:[8,10],data:[0,1,3,4,5,6,7,8,9,10,11],databas:[8,9,11,12],database_disable_pool:11,database_url:[8,11],date:[0,5,7,8,9],db:11,debian:11,default_staticmap:[8,11],defin:9,definit:8,delet:[0,6,7,8,9],depend:[8,11],deploy:10,desc:7,descent:[7,9],describ:11,descript:11,detail:[6,8,10],develop:[8,10],dialect:12,differ:8,directli:11,directori:[8,11],disabl:[0,8,9,11],displai:[7,8,9,10,11,12],distanc:[3,7,8,9],distance_from:7,distance_to:7,distribut:11,docker:[8,10],document:[8,10,11],doe:[0,5,6,7,8],don:0,down:8,download:11,dramatiq:11,drop:8,dropdown:9,due:8,durat:[3,7,8,9],duration_from:7,duration_to:7,dure:[0,7],easi:8,edit:[0,8,9],electr:9,elev:[7,8,9,11],els:11,email:[0,6,8],email_url:11,empti:8,en:[0,6],enabl:[1,9],encount:11,end:[5,7],endpoint:[1,8],engin:[8,11,12],english:9,enter:[8,9],entiti:[0,7],entri:11,env:11,environ:[8,10,12],error:[0,1,4,6,7,8,9,11,12],europ:[0,6],evalu:[8,11],even:[8,9],exampl:[0,1,3,4,5,6,7,10,11],exc:12,exce:[0,7],exceed:8,except:6,execstart:11,exhaust:10,exist:[0,5,6,7,9,10,11],expir:[0,1,3,4,5,6,7],extens:[0,7],fa33f4d996844a5c73ecd1ae24456ab8:7,fail:[8,13],fals:[0,1,4,6,7,11],farest:[3,8,9],fd:[0,3,6,7],featur:[10,11],fetch:11,file:[0,1,7,8,9,10,11],filter:[8,9],first:[0,9,10],first_nam:[0,6],fitotrack:10,fittracke:[9,11,13],fittrackee_cli:11,fittrackee_init_data:11,fittrackee_upgrade_db:11,fittrackee_work:11,fix:10,flask:11,flask_app:11,flaticon:11,fmstrat:8,follow:[3,9,11,12],forbidden:[0,1,4,5,6,7],forecast:11,form:[0,7],format:[0,5,7],former:11,forrunn:10,forward:11,found:[0,4,5,6,7],fr:6,frame:5,freepik:11,french:[9,10],fri:7,from:[1,3,4,5,6,7,8,10],full:8,fullchain:11,gener:[8,11],get:[0,1,3,4,5,6,7],gif:0,git:11,github:11,given:11,gmt:[0,3,6,7],gpl:10,gpx:[7,8,9,10,11],gpx_limit_import:1,gpxpy:[0,9,11],grant:11,graph:8,greater:8,gunicorn:[11,12],gz:11,h:[7,9],ha:[6,9],handl:[0,9,11],has_workout:4,have:[1,4,5,6,7,8],he:6,header:[0,1,3,4,5,6,7],health:1,heavi:[10,11],hexadecim:0,hi:[6,8,9],hike:[4,8,9],home:11,host:11,href:[1,11],http:[0,1,3,4,5,6,7,11],hvybqybra7wwxpastwr4v2:[0,3,6],i18n:8,icon:11,id:[0,1,3,4,5,6,7],imag:[0,6,7,8,9,11],imperi:[8,9],imperial_unit:[0,6],improv:10,incorrect:8,index:7,info:0,inform:[8,10,11],init:11,initi:11,initialis:11,insid:11,instal:[8,10],instanc:[1,9,11],instead:9,integ:[1,3,4,5,6,7],interceptor:8,interfac:11,intern:[0,1,4,6,7],introduc:8,invalid:[0,1,3,4,5,6,7,8,11],io:11,ip:11,is_act:[0,4],is_active_for_us:4,is_registration_en:1,issu:[10,11],jan:7,javascript:8,john_do:6,jpeg:6,jpg:0,js:11,json:[0,1,3,4,5,6,7],jul:[0,3,6,7],keep:[8,10,11],kei:[8,9,11],kjxavsturjvoah2wvcegef:7,km:[7,9],label:4,languag:[0,6,9],larg:[0,7,9],larger:11,last:[0,11],last_nam:[0,6],latitud:7,layer:[8,11],ld:[0,3,6,7],leaflet:[7,11],least:7,less:8,librari:11,licens:[8,10],like:[9,11],limit:[8,9],link:11,linux:11,list:[8,10,11],listen:11,load:[8,12],local:[8,10,11],localhost:11,locat:[0,6,11],log:[0,1,3,4,5,6,7,10,11,12],logfil:11,login:0,logo:11,logout:[0,8],longer:[8,12],longest:[3,8,9],longitud:7,m:[0,5,7],made:11,mai:[9,10,11],mailhog:11,major:8,make:[8,11],makefil:11,manag:8,mandatori:[7,8,11],map:[7,8,9,10],map_attribut:[1,11],map_id:7,map_til:7,match:0,max:[1,6,7,8],max_alt:7,max_single_file_s:1,max_spe:7,max_speed_from:7,max_speed_to:7,max_us:1,max_zip_file_s:1,maxim:7,maximum:[3,8,9],messag:[0,1,7,8],method:11,metric:9,migrat:8,min:8,min_alt:7,minim:7,minor:10,miss:8,mobil:10,model:8,modifi:[6,8],modification_d:7,modul:11,mon:7,mondai:[0,5,9],montain:8,month:[5,8,9],more:[8,9,10,11],morn:7,mountain:[4,9],mous:8,move:[7,8],movement:8,mpwoadmin:11,ms:[0,3,6,7],multi:11,multipart:[0,7],must:[0,1,4,8,9,11,12],mv:11,n:0,name:[0,5,6,11],nano:11,nb_sport:[0,6],nb_workout:[0,5,6],necessari:[9,11],need:11,network:11,next:9,next_workout:7,nginx:[9,11],no_gpx:7,non:[4,10],noopen:11,noreferr:11,nosuchmoduleerror:12,note:[7,8,9,11],now:[8,9,11],number:[1,6,7,8,9,11],oauth:[0,1,3,4,5,6,7],object:[0,1,4,6,7],ok:[0,1,3,4,5,6,7],one:[6,7,9],onli:[6,7,8,9,11],open:[10,11],openstreetmap:[1,8,11],opentrack:10,option:11,order:[6,7,8],order_bi:6,org:[1,11],os:11,other:[6,11],out:0,outdoor:[8,10,11],over:8,overrid:9,overridden:9,overwrit:11,own:[6,10],owner:[8,9],packag:[8,11],paf38:8,page:[6,7],pagin:[6,7],par_pag:6,paramet:[0,1,3,4,5,6,7,8,9],pari:[0,6],pars:11,part:[0,7],pass:11,password:[0,8,9,11],password_conf:0,patch:[1,4,6,7],path:11,paus:[7,8],payload:[0,1,4,7],pem:11,per:[6,7,8],per_pag:[6,7],period:9,permiss:[1,4,5,6,7],pg_dump:11,pictur:[0,6,7],ping:1,pip:11,pipenv:8,pleas:[0,1,3,4,5,6,7,8],plugin:12,png:[0,7,11],poetri:[8,11],point:[8,11],pong:1,pool:11,port:11,possibl:[8,10],post:[0,7],postgr:[8,12],postgresql:[8,11,12],prefer:[0,8],prerequisit:10,previous_workout:7,privileg:11,privkei:11,process:[0,9,11],productionconfig:11,profil:0,project:11,provid:[0,1,3,4,5,6,7,8,9,11],proxi:11,proxy_add_x_forwarded_for:11,proxy_pass:11,proxy_redirect:11,proxy_set_head:11,pull:11,purpos:[8,11],pwd:11,py:11,pypi:10,python:[8,11],q:6,queri:[5,6,7],queue:11,r:11,rais:9,read:8,real:11,rebuild:8,rechart:7,recommend:11,record:[0,2,6,7,8,9,10],record_typ:[0,3,6,7],redi:[8,11],redis_url:11,refactor:8,regist:[0,1,11],registr:[0,1,8,9],rel:11,relat:[9,11],releas:[10,11],remain:8,remote_addr:11,remov:9,renam:8,replac:[8,11],repo:11,repositori:11,request:[0,1,3,4,5,6,7],request_uri:11,requir:0,reset:[0,8,9],respons:[0,1,3,4,5,6,7],restart:11,restartsec:11,right:[6,8,9],rout:8,row:9,run:[4,8,9,11],runner:10,s:[6,7,8,9,11],sam:[0,6],same:8,samr1:11,sat:6,save:[8,9],schema:11,screen:8,search:8,second:7,secret:11,see:[8,9,10,11],seem:8,segment:[7,8,9],segment_id:7,select:[0,7],send:[8,11],sender:11,sender_email:11,serv:11,server:[0,1,4,6,7,8,9,10],server_nam:11,servic:11,set:[8,9],sever:[10,11],shell:11,should:11,show:8,shown:8,side:8,signatur:[0,1,3,4,5,6,7],simpl:11,simplifi:8,sinc:11,singl:[1,6],size:[0,1,7,8,9],ski:9,sky:11,slow:8,smtp:11,some:[6,7,8,10,11],sorri:0,sort:[6,7],sourc:10,spawn:11,speed:[0,3,7,8,9,11],spinner:8,sport:[0,2,5,7,8,9,10,11],sport_id:[0,3,4,5,6,7],sports_list:[0,6],sql:11,sqlalchemi:[8,11,12],ssl:11,ssl_certif:11,ssl_certificate_kei:11,standard:[8,11],standarderror:11,standardoutput:11,start:[0,5,7,8,9,11,13],startlimitintervalsec:11,starttl:11,stat:[5,8],staticmap:11,statist:[2,10],statu:[0,1,3,4,5,6,7],step:11,still:[9,10],stop:[0,8,9,11],stopped_speed_threshold:[0,4],store:[9,10],street:10,string:[0,4,5,6,7],subdomain:7,success:[0,1,3,4,5,6,7],successfulli:0,sun:[0,3,6,7],sundai:[5,7,9],support:[8,9,12],syslog:11,syslogidentifi:11,system:[9,11],systemd:11,t:[0,12],tar:11,target:11,task:11,term:[8,11],test:11,textarea:8,than:8,thank:8,thei:11,them:10,thi:[7,8,9,10,11],threshold:[0,8,9],thunderforest:[8,11],tile:[7,8],tile_server_url:11,time:[0,5,7,8,9],timezon:[0,6,8,9],titl:7,tl:11,todo:14,token:[0,1,3,4,5,6,7],too:[0,7],tool:11,tooltip:8,total:[8,9],total_asc:5,total_dist:[0,5,6],total_dur:[0,5,6],track:10,trail:9,transport:[4,8,9],troubleshoot:10,type:[0,1,3,4,5,6,7,11],typescript:11,u:11,ui:8,ui_url:11,unauthor:[0,1,3,4,5,6,7],under:[10,11],unencrypt:11,unit:[8,11],unreleas:10,unstabl:[10,11],up:[9,10],updat:[0,1,4,6,7,8,9,11],upload:[8,9,11],upload_fold:11,uploads_dir_s:5,url:[8,11,12],us:[0,6,7,8,9,10,11],user:[0,1,2,3,4,5,7,8,9,10,11,13],user_id:0,user_nam:[5,6],usernam:[0,6,11],uuid:[7,8],v0:11,v3:10,valid:[0,1,3,4,5,6,7,11],valu:[0,3,6,7],variabl:[8,10,12],venv:11,version:[1,10,11],view:8,virtualenv:11,vue3:11,vue:11,vue_app_api_url:11,vuex:11,wa:8,wai:11,walk:[4,8,9],wantedbi:11,warn:8,weather:[8,9,11],weather_api:11,weather_api_kei:11,weather_end:7,weather_start:7,web:[0,1,3,4,5,6,7,10,11],week:[0,5,8,9],weekend:8,weekm:[0,5],were:8,wget:11,when:[0,1,8,9,11],where:11,which:9,with_gpx:7,without:[5,6,7,8,9,10],worker:11,workers_process:11,workingdirectori:11,workout:[0,2,5,8,10],workout_d:[0,3,6,7],workout_id:[0,3,6,7],workout_short_id:7,workouts_count:6,written:11,www:[1,11],x:[7,11],xxxx:11,xzf:11,y:[0,5,7,11],yai:11,yarn:11,year:[5,9],yet:10,you:[1,4,5,6,7,10],your:[6,10,11],z:[7,11],zip:[1,7,8,9],zone:0,zoom:7},titles:["Authentication","Configuration","API documentation","Records","Sports","Statistics","Users","Workouts","Change log","Features","FitTrackee","Installation","Administrator","Troubleshooting","User"],titleterms:{"0":8,"01":8,"02":8,"03":8,"04":8,"07":8,"09":8,"1":8,"10":8,"11":8,"12":8,"14":8,"15":8,"16":8,"17":8,"19":8,"2":8,"2018":8,"2019":8,"2020":8,"2021":8,"21":8,"23":8,"29":8,"3":8,"30":8,"31":8,"4":8,"5":8,"6":8,"7":8,"8":8,"9":8,"new":8,account:9,administr:[8,9,12],api:2,authent:0,avail:8,bug:8,chang:8,close:8,configur:1,content:10,dashboard:9,deploy:11,detail:9,dev:11,develop:11,docker:11,document:2,email:11,endpoint:[2,13],environ:11,fail:12,featur:[8,9],first:8,fittracke:[8,10,12],fix:8,french:8,from:11,improv:8,instal:11,issu:8,list:9,log:8,map:11,minor:8,misc:8,prefer:9,prerequisit:11,prod:11,product:11,pull:8,pypi:[8,11],record:3,releas:8,request:8,server:11,sourc:11,sport:4,start:12,statist:[5,8,9],tabl:10,tile:11,translat:9,troubleshoot:13,unreleas:8,upgrad:11,user:[6,14],variabl:11,version:8,workout:[7,9]}})

diff --git a/docs/changelog.html b/docs/changelog.html
@@ -284,9 +284,10 @@
 <section id="new-features">
 <h4>New Features<a class="headerlink" href="#new-features" title="Permalink to this headline">¶</a></h4>
 <ul class="simple">
+<li><p><a class="reference external" href="https://github.com/SamR1/FitTrackee/issues/116">#116</a> - Better UI for Speed and Elevation buttons in the graph of the Workout screen</p></li>
 <li><p><a class="reference external" href="https://github.com/SamR1/FitTrackee/issues/5">#5</a> - Display a chart with average speed</p></li>
 </ul>
-<p>In this release 1 issue was closed.</p>
+<p>In this release 2 issue were closed.</p>
 </section>
 </section>
 </section>

diff --git a/CHANGELOG.md b/CHANGELOG.md
@@ -6,9 +6,10 @@
 
 #### New Features
 
+* [#116](https://github.com/SamR1/FitTrackee/issues/116) - Better UI for Speed and Elevation buttons in the graph of the Workout screen
 * [#5](https://github.com/SamR1/FitTrackee/issues/5) - Display a chart with average speed
 
-In this release 1 issue was closed.  
+In this release 2 issue were closed.  
 
 
 ## Version 0.5.0 (2021/11/14)
